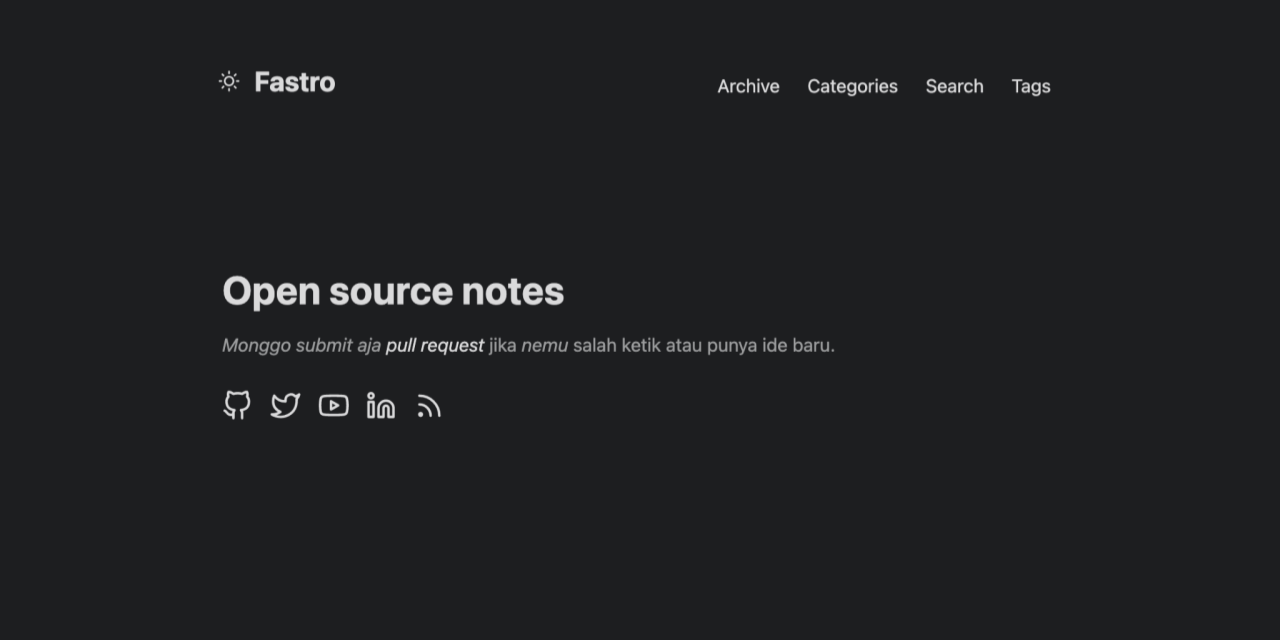
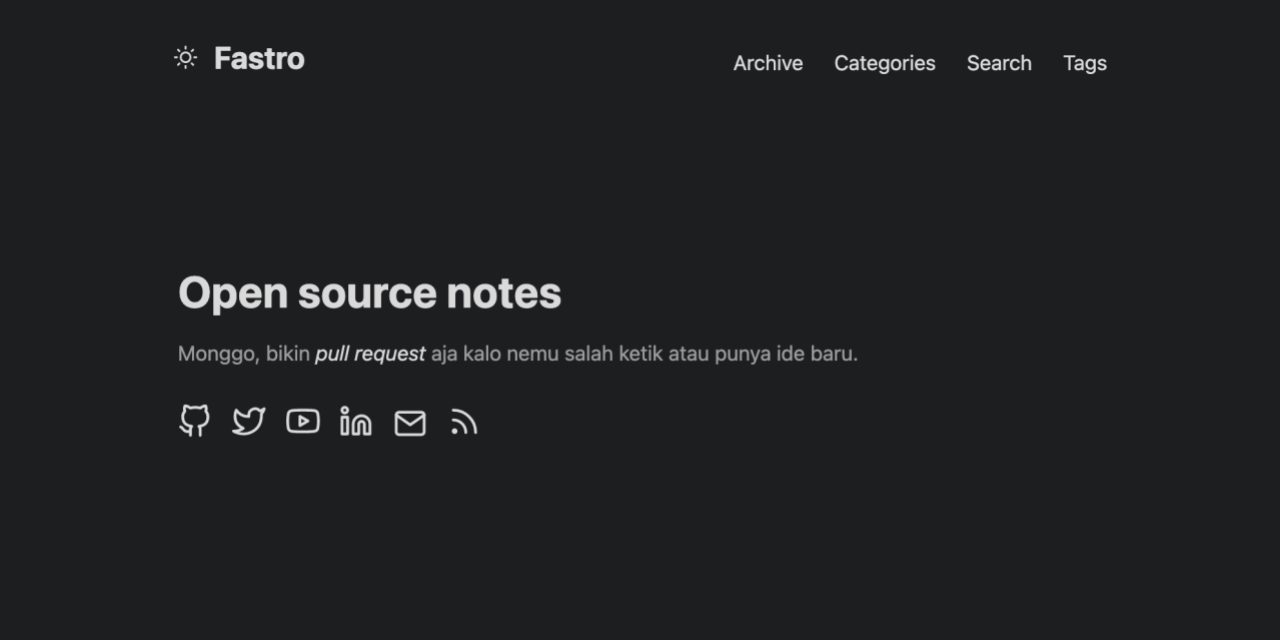
deploy: 431e5c42c333761e68688adf3ae1dd846f1f8003

diff --git a/index.html b/index.html
@@ -16,7 +16,7 @@ Admin">
 <link rel=mask-icon href=https://fastro.dev/safari-pinned-tab.svg>
 <meta name=theme-color content="#2e2e33">
 <meta name=msapplication-TileColor content="#2e2e33">
-<meta name=generator content="Hugo 0.91.0">
+<meta name=generator content="Hugo 0.91.1">
 <link rel=alternate type=application/rss+xml href=https://fastro.dev/index.xml>
 <link rel=alternate type=application/json href=https://fastro.dev/index.json>
 <noscript>
@@ -31,7 +31,7 @@ Admin">
 <meta name=twitter:image content="https://fastro.dev/seo.png">
 <meta name=twitter:title content="Fastro">
 <meta name=twitter:description content="Fastro is an open source blog. Contains notes about: cloud, docker, forex, golang, javascript, kubernetes, react, serverless">
-<script type=application/ld+json>{"@context":"https://schema.org","@type":"Organization","name":"Fastro","url":"https://fastro.dev","description":"Fastro is an open source blog. Contains notes about: cloud, docker, forex, golang, javascript, kubernetes, react, serverless","thumbnailUrl":"https://fastro.dev/favicon.ico","sameAs":["https://github.com/fastrodev","https://twitter.com/fastrodev","https://www.youtube.com/channel/UCOx6BLqBZxEO51UuWJEeyhw","https://www.linkedin.com/company/fastro","index.xml"]}</script>
+<script type=application/ld+json>{"@context":"https://schema.org","@type":"Organization","name":"Fastro","url":"https://fastro.dev","description":"Fastro is an open source blog. Contains notes about: cloud, docker, forex, golang, javascript, kubernetes, react, serverless","thumbnailUrl":"https://fastro.dev/favicon.ico","sameAs":["https://github.com/fastrodev","https://twitter.com/fastrodev","https://www.youtube.com/channel/UCOx6BLqBZxEO51UuWJEeyhw","https://www.linkedin.com/company/fastro","mailto:hello@fastro.dev","index.xml"]}</script>
 </head>
 <body class=list id=top>
 <script>localStorage.getItem("pref-theme")==="dark"?document.body.classList.add('dark'):localStorage.getItem("pref-theme")==="light"?document.body.classList.remove('dark'):window.matchMedia('(prefers-color-scheme: dark)').matches&&document.body.classList.add('dark')</script>
@@ -74,7 +74,7 @@ Fastro</a>
 <h1>Open source notes</h1>
 </header>
 <section class=entry-content>
-<p><em>Monggo submit aja <a href=https://docs.github.com/en/pull-requests/collaborating-with-pull-requests/proposing-changes-to-your-work-with-pull-requests/about-pull-requests>pull request</a></em> jika <em>nemu</em> salah ketik atau punya ide baru.</p>
+<p>Monggo, bikin <em><a href=https://docs.github.com/en/pull-requests/collaborating-with-pull-requests/proposing-changes-to-your-work-with-pull-requests/about-pull-requests>pull request</a></em> aja kalo nemu salah ketik atau punya ide baru.</p>
 </section>
 <footer class=entry-footer>
 <div class=social-icons>
@@ -85,6 +85,8 @@ Fastro</a>
 <a href=https://www.youtube.com/channel/UCOx6BLqBZxEO51UuWJEeyhw target=_blank rel="noopener noreferrer me" title=Youtube><svg xmlns="http://www.w3.org/2000/svg" viewBox="0 0 24 24" fill="none" stroke="currentcolor" stroke-width="2" stroke-linecap="round" stroke-linejoin="round"><path d="M22.54 6.42a2.78 2.78.0 00-1.94-2C18.88 4 12 4 12 4s-6.88.0-8.6.46a2.78 2.78.0 00-1.94 2A29 29 0 001 11.75a29 29 0 00.46 5.33A2.78 2.78.0 003.4 19c1.72.46 8.6.46 8.6.46s6.88.0 8.6-.46a2.78 2.78.0 001.94-2 29 29 0 00.46-5.25 29 29 0 00-.46-5.33z"/><polygon points="9.75 15.02 15.5 11.75 9.75 8.48 9.75 15.02"/></svg>
 </a>
 <a href=https://www.linkedin.com/company/fastro target=_blank rel="noopener noreferrer me" title=Linkedin><svg xmlns="http://www.w3.org/2000/svg" viewBox="0 0 24 24" fill="none" stroke="currentcolor" stroke-width="2" stroke-linecap="round" stroke-linejoin="round"><path d="M16 8a6 6 0 016 6v7h-4v-7a2 2 0 00-2-2 2 2 0 00-2 2v7h-4v-7a6 6 0 016-6z"/><rect x="2" y="9" width="4" height="12"/><circle cx="4" cy="4" r="2"/></svg>
+</a>
+<a href=mailto:hello@fastro.dev target=_blank rel="noopener noreferrer me" title=Email><svg xmlns="http://www.w3.org/2000/svg" viewBox="0 0 24 21" fill="none" stroke="currentcolor" stroke-width="2" stroke-linecap="round" stroke-linejoin="round"><path d="M4 4h16c1.1.0 2 .9 2 2v12c0 1.1-.9 2-2 2H4c-1.1.0-2-.9-2-2V6c0-1.1.9-2 2-2z"/><polyline points="22,6 12,13 2,6"/></svg>
 </a>
 <a href=index.xml target=_blank rel="noopener noreferrer me" title=Rss><svg xmlns="http://www.w3.org/2000/svg" viewBox="0 0 24 24" fill="none" stroke="currentcolor" stroke-width="2" stroke-linecap="round" stroke-linejoin="round"><path d="M4 11a9 9 0 019 9"/><path d="M4 4a16 16 0 0116 16"/><circle cx="5" cy="19" r="1"/></svg>
 </a>

diff --git a/page/2/index.html b/page/2/index.html
@@ -16,7 +16,7 @@ Admin">
 <link rel=mask-icon href=https://fastro.dev/safari-pinned-tab.svg>
 <meta name=theme-color content="#2e2e33">
 <meta name=msapplication-TileColor content="#2e2e33">
-<meta name=generator content="Hugo 0.91.0">
+<meta name=generator content="Hugo 0.91.1">
 <link rel=alternate type=application/rss+xml href=https://fastro.dev/index.xml>
 <link rel=alternate type=application/json href=https://fastro.dev/index.json>
 <noscript>
@@ -31,7 +31,7 @@ Admin">
 <meta name=twitter:image content="https://fastro.dev/seo.png">
 <meta name=twitter:title content="Fastro">
 <meta name=twitter:description content="Fastro is an open source blog. Contains notes about: cloud, docker, forex, golang, javascript, kubernetes, react, serverless">
-<script type=application/ld+json>{"@context":"https://schema.org","@type":"Organization","name":"Fastro","url":"https://fastro.dev","description":"Fastro is an open source blog. Contains notes about: cloud, docker, forex, golang, javascript, kubernetes, react, serverless","thumbnailUrl":"https://fastro.dev/favicon.ico","sameAs":["https://github.com/fastrodev","https://twitter.com/fastrodev","https://www.youtube.com/channel/UCOx6BLqBZxEO51UuWJEeyhw","https://www.linkedin.com/company/fastro","index.xml"]}</script>
+<script type=application/ld+json>{"@context":"https://schema.org","@type":"Organization","name":"Fastro","url":"https://fastro.dev","description":"Fastro is an open source blog. Contains notes about: cloud, docker, forex, golang, javascript, kubernetes, react, serverless","thumbnailUrl":"https://fastro.dev/favicon.ico","sameAs":["https://github.com/fastrodev","https://twitter.com/fastrodev","https://www.youtube.com/channel/UCOx6BLqBZxEO51UuWJEeyhw","https://www.linkedin.com/company/fastro","mailto:hello@fastro.dev","index.xml"]}</script>
 </head>
 <body class=list id=top>
 <script>localStorage.getItem("pref-theme")==="dark"?document.body.classList.add('dark'):localStorage.getItem("pref-theme")==="light"?document.body.classList.remove('dark'):window.matchMedia('(prefers-color-scheme: dark)').matches&&document.body.classList.add('dark')</script>

diff --git a/404.html b/404.html
@@ -17,7 +17,7 @@ Admin">
 <link rel=mask-icon href=https://fastro.dev/safari-pinned-tab.svg>
 <meta name=theme-color content="#2e2e33">
 <meta name=msapplication-TileColor content="#2e2e33">
-<meta name=generator content="Hugo 0.91.0">
+<meta name=generator content="Hugo 0.91.1">
 <noscript>
 <style>#theme-toggle,.top-link{display:none}</style>
 <style>@media(prefers-color-scheme:dark){:root{--theme:rgb(29, 30, 32);--entry:rgb(46, 46, 51);--primary:rgb(218, 218, 219);--secondary:rgb(155, 156, 157);--tertiary:rgb(65, 66, 68);--content:rgb(196, 196, 197);--hljs-bg:rgb(46, 46, 51);--code-bg:rgb(55, 56, 62);--border:rgb(51, 51, 51)}.list{background:var(--theme)}.list:not(.dark)::-webkit-scrollbar-track{background:0 0}.list:not(.dark)::-webkit-scrollbar-thumb{border-color:var(--theme)}}</style>

diff --git a/archives/index.html b/archives/index.html
@@ -17,7 +17,7 @@ Admin">
 <link rel=mask-icon href=https://fastro.dev/safari-pinned-tab.svg>
 <meta name=theme-color content="#2e2e33">
 <meta name=msapplication-TileColor content="#2e2e33">
-<meta name=generator content="Hugo 0.91.0">
+<meta name=generator content="Hugo 0.91.1">
 <noscript>
 <style>#theme-toggle,.top-link{display:none}</style>
 <style>@media(prefers-color-scheme:dark){:root{--theme:rgb(29, 30, 32);--entry:rgb(46, 46, 51);--primary:rgb(218, 218, 219);--secondary:rgb(155, 156, 157);--tertiary:rgb(65, 66, 68);--content:rgb(196, 196, 197);--hljs-bg:rgb(46, 46, 51);--code-bg:rgb(55, 56, 62);--border:rgb(51, 51, 51)}.list{background:var(--theme)}.list:not(.dark)::-webkit-scrollbar-track{background:0 0}.list:not(.dark)::-webkit-scrollbar-thumb{border-color:var(--theme)}}</style>

diff --git a/posts/interface/index.html b/posts/interface/index.html
@@ -18,7 +18,7 @@ Admin">
 <link rel=mask-icon href=https://fastro.dev/safari-pinned-tab.svg>
 <meta name=theme-color content="#2e2e33">
 <meta name=msapplication-TileColor content="#2e2e33">
-<meta name=generator content="Hugo 0.91.0">
+<meta name=generator content="Hugo 0.91.1">
 <noscript>
 <style>#theme-toggle,.top-link{display:none}</style>
 <style>@media(prefers-color-scheme:dark){:root{--theme:rgb(29, 30, 32);--entry:rgb(46, 46, 51);--primary:rgb(218, 218, 219);--secondary:rgb(155, 156, 157);--tertiary:rgb(65, 66, 68);--content:rgb(196, 196, 197);--hljs-bg:rgb(46, 46, 51);--code-bg:rgb(55, 56, 62);--border:rgb(51, 51, 51)}.list{background:var(--theme)}.list:not(.dark)::-webkit-scrollbar-track{background:0 0}.list:not(.dark)::-webkit-scrollbar-thumb{border-color:var(--theme)}}</style>

diff --git a/posts/marshal/index.html b/posts/marshal/index.html
@@ -18,7 +18,7 @@ Admin">
 <link rel=mask-icon href=https://fastro.dev/safari-pinned-tab.svg>
 <meta name=theme-color content="#2e2e33">
 <meta name=msapplication-TileColor content="#2e2e33">
-<meta name=generator content="Hugo 0.91.0">
+<meta name=generator content="Hugo 0.91.1">
 <noscript>
 <style>#theme-toggle,.top-link{display:none}</style>
 <style>@media(prefers-color-scheme:dark){:root{--theme:rgb(29, 30, 32);--entry:rgb(46, 46, 51);--primary:rgb(218, 218, 219);--secondary:rgb(155, 156, 157);--tertiary:rgb(65, 66, 68);--content:rgb(196, 196, 197);--hljs-bg:rgb(46, 46, 51);--code-bg:rgb(55, 56, 62);--border:rgb(51, 51, 51)}.list{background:var(--theme)}.list:not(.dark)::-webkit-scrollbar-track{background:0 0}.list:not(.dark)::-webkit-scrollbar-thumb{border-color:var(--theme)}}</style>

diff --git a/posts/module/index.html b/posts/module/index.html
@@ -18,7 +18,7 @@ Admin">
 <link rel=mask-icon href=https://fastro.dev/safari-pinned-tab.svg>
 <meta name=theme-color content="#2e2e33">
 <meta name=msapplication-TileColor content="#2e2e33">
-<meta name=generator content="Hugo 0.91.0">
+<meta name=generator content="Hugo 0.91.1">
 <noscript>
 <style>#theme-toggle,.top-link{display:none}</style>
 <style>@media(prefers-color-scheme:dark){:root{--theme:rgb(29, 30, 32);--entry:rgb(46, 46, 51);--primary:rgb(218, 218, 219);--secondary:rgb(155, 156, 157);--tertiary:rgb(65, 66, 68);--content:rgb(196, 196, 197);--hljs-bg:rgb(46, 46, 51);--code-bg:rgb(55, 56, 62);--border:rgb(51, 51, 51)}.list{background:var(--theme)}.list:not(.dark)::-webkit-scrollbar-track{background:0 0}.list:not(.dark)::-webkit-scrollbar-thumb{border-color:var(--theme)}}</style>

diff --git a/posts/mongodb/index.html b/posts/mongodb/index.html
@@ -18,7 +18,7 @@ Admin">
 <link rel=mask-icon href=https://fastro.dev/safari-pinned-tab.svg>
 <meta name=theme-color content="#2e2e33">
 <meta name=msapplication-TileColor content="#2e2e33">
-<meta name=generator content="Hugo 0.91.0">
+<meta name=generator content="Hugo 0.91.1">
 <noscript>
 <style>#theme-toggle,.top-link{display:none}</style>
 <style>@media(prefers-color-scheme:dark){:root{--theme:rgb(29, 30, 32);--entry:rgb(46, 46, 51);--primary:rgb(218, 218, 219);--secondary:rgb(155, 156, 157);--tertiary:rgb(65, 66, 68);--content:rgb(196, 196, 197);--hljs-bg:rgb(46, 46, 51);--code-bg:rgb(55, 56, 62);--border:rgb(51, 51, 51)}.list{background:var(--theme)}.list:not(.dark)::-webkit-scrollbar-track{background:0 0}.list:not(.dark)::-webkit-scrollbar-thumb{border-color:var(--theme)}}</style>

diff --git a/posts/pointer/index.html b/posts/pointer/index.html
@@ -18,7 +18,7 @@ Admin">
 <link rel=mask-icon href=https://fastro.dev/safari-pinned-tab.svg>
 <meta name=theme-color content="#2e2e33">
 <meta name=msapplication-TileColor content="#2e2e33">
-<meta name=generator content="Hugo 0.91.0">
+<meta name=generator content="Hugo 0.91.1">
 <noscript>
 <style>#theme-toggle,.top-link{display:none}</style>
 <style>@media(prefers-color-scheme:dark){:root{--theme:rgb(29, 30, 32);--entry:rgb(46, 46, 51);--primary:rgb(218, 218, 219);--secondary:rgb(155, 156, 157);--tertiary:rgb(65, 66, 68);--content:rgb(196, 196, 197);--hljs-bg:rgb(46, 46, 51);--code-bg:rgb(55, 56, 62);--border:rgb(51, 51, 51)}.list{background:var(--theme)}.list:not(.dark)::-webkit-scrollbar-track{background:0 0}.list:not(.dark)::-webkit-scrollbar-thumb{border-color:var(--theme)}}</style>

diff --git a/posts/receiver/index.html b/posts/receiver/index.html
@@ -18,7 +18,7 @@ Admin">
 <link rel=mask-icon href=https://fastro.dev/safari-pinned-tab.svg>
 <meta name=theme-color content="#2e2e33">
 <meta name=msapplication-TileColor content="#2e2e33">
-<meta name=generator content="Hugo 0.91.0">
+<meta name=generator content="Hugo 0.91.1">
 <noscript>
 <style>#theme-toggle,.top-link{display:none}</style>
 <style>@media(prefers-color-scheme:dark){:root{--theme:rgb(29, 30, 32);--entry:rgb(46, 46, 51);--primary:rgb(218, 218, 219);--secondary:rgb(155, 156, 157);--tertiary:rgb(65, 66, 68);--content:rgb(196, 196, 197);--hljs-bg:rgb(46, 46, 51);--code-bg:rgb(55, 56, 62);--border:rgb(51, 51, 51)}.list{background:var(--theme)}.list:not(.dark)::-webkit-scrollbar-track{background:0 0}.list:not(.dark)::-webkit-scrollbar-thumb{border-color:var(--theme)}}</style>

diff --git a/posts/repository/index.html b/posts/repository/index.html
@@ -18,7 +18,7 @@ Admin">
 <link rel=mask-icon href=https://fastro.dev/safari-pinned-tab.svg>
 <meta name=theme-color content="#2e2e33">
 <meta name=msapplication-TileColor content="#2e2e33">
-<meta name=generator content="Hugo 0.91.0">
+<meta name=generator content="Hugo 0.91.1">
 <noscript>
 <style>#theme-toggle,.top-link{display:none}</style>
 <style>@media(prefers-color-scheme:dark){:root{--theme:rgb(29, 30, 32);--entry:rgb(46, 46, 51);--primary:rgb(218, 218, 219);--secondary:rgb(155, 156, 157);--tertiary:rgb(65, 66, 68);--content:rgb(196, 196, 197);--hljs-bg:rgb(46, 46, 51);--code-bg:rgb(55, 56, 62);--border:rgb(51, 51, 51)}.list{background:var(--theme)}.list:not(.dark)::-webkit-scrollbar-track{background:0 0}.list:not(.dark)::-webkit-scrollbar-thumb{border-color:var(--theme)}}</style>

diff --git a/search/index.html b/search/index.html
@@ -18,7 +18,7 @@ Admin">
 <link rel=mask-icon href=https://fastro.dev/safari-pinned-tab.svg>
 <meta name=theme-color content="#2e2e33">
 <meta name=msapplication-TileColor content="#2e2e33">
-<meta name=generator content="Hugo 0.91.0">
+<meta name=generator content="Hugo 0.91.1">
 <noscript>
 <style>#theme-toggle,.top-link{display:none}</style>
 <style>@media(prefers-color-scheme:dark){:root{--theme:rgb(29, 30, 32);--entry:rgb(46, 46, 51);--primary:rgb(218, 218, 219);--secondary:rgb(155, 156, 157);--tertiary:rgb(65, 66, 68);--content:rgb(196, 196, 197);--hljs-bg:rgb(46, 46, 51);--code-bg:rgb(55, 56, 62);--border:rgb(51, 51, 51)}.list{background:var(--theme)}.list:not(.dark)::-webkit-scrollbar-track{background:0 0}.list:not(.dark)::-webkit-scrollbar-thumb{border-color:var(--theme)}}</style>
